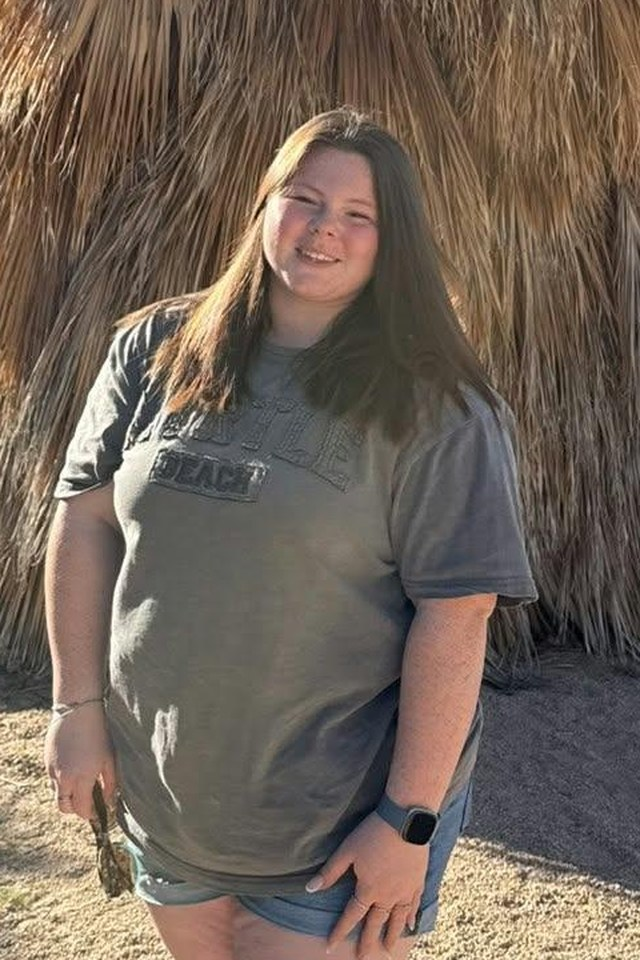
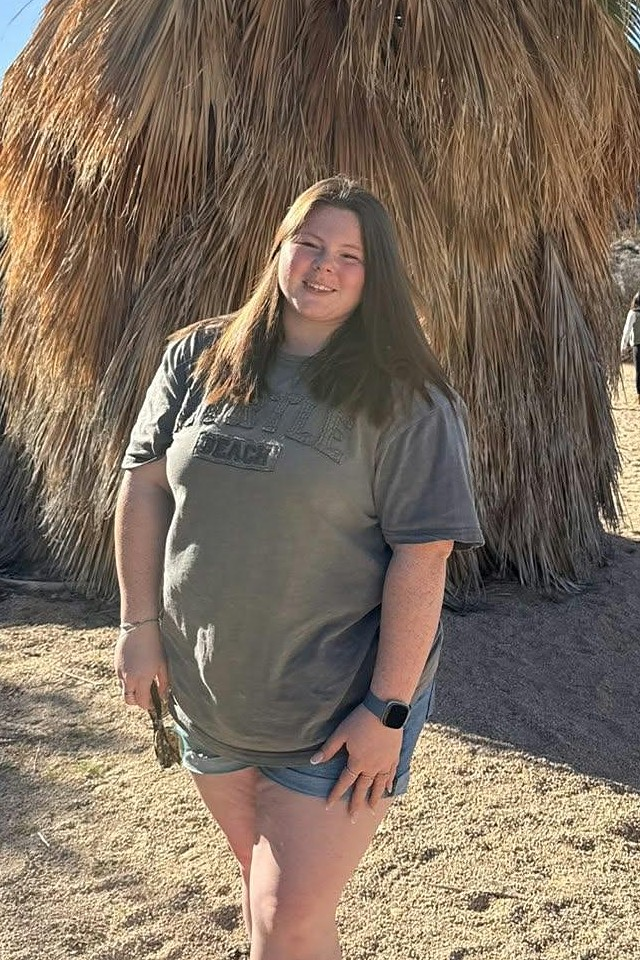
Avery photo: wider crop at native resolution
Claude-Session: https://claude.ai/code/session_01YKEHfAAvbnNQ1PL7qNPmK6

diff --git a/index.html b/index.html
@@ -75,7 +75,7 @@
           <a class="speaker-tile" href="speakers.html#katie"><img src="assets/speakers/katie.jpg" alt="Portrait of Katie Short" width="480" height="640" loading="lazy"><strong>Katie Short</strong><span>Worship Leader</span></a>
           <a class="speaker-tile" href="speakers.html#seth"><img src="assets/speakers/seth.jpg" alt="Portrait of Seth Smart" width="480" height="640" loading="lazy"><strong>Seth Smart</strong><span>Musician &amp; songwriter</span></a>
           <a class="speaker-tile" href="speakers.html#samantha"><img src="assets/speakers/samantha.jpg" alt="Portrait of Samantha Hoover" width="480" height="640" loading="lazy"><strong>Samantha Hoover</strong><span>Youth &amp; children&rsquo;s ministry</span></a>
-          <a class="speaker-tile" href="speakers.html#avery"><img src="assets/speakers/avery.jpg?v=2" alt="Portrait of Avery Gates" width="480" height="640" loading="lazy"><strong>Avery Gates</strong><span>Corry, PA</span></a>
+          <a class="speaker-tile" href="speakers.html#avery"><img src="assets/speakers/avery.jpg?v=3" alt="Portrait of Avery Gates" width="480" height="640" loading="lazy"><strong>Avery Gates</strong><span>Corry, PA</span></a>
           <a class="speaker-tile" href="speakers.html#tylor"><img src="assets/speakers/tylor.jpg" alt="Portrait of Tylor Enos" width="480" height="640" loading="lazy"><strong>Tylor Enos</strong><span>Men&rsquo;s Alliance &amp; worship team</span></a>
           <a class="speaker-tile" href="speakers.html#gavin"><img src="assets/speakers/gavin.jpg" alt="Portrait of Gavin Grieco" width="480" height="640" loading="lazy"><strong>Gavin Grieco</strong><span>Leader of The Porch</span></a>
           <a class="speaker-tile" href="speakers.html#chiara"><img src="assets/speakers/chiara.jpg" alt="Portrait of Chiara Hoover" width="480" height="640" loading="lazy"><strong>Chiara Hoover</strong><span>Worship team &amp; youth ministry</span></a>

diff --git a/speakers.html b/speakers.html
@@ -53,7 +53,7 @@
           </div>
         </article>
         <article class="card speaker" id="avery">
-          <img class="photo" src="assets/speakers/avery.jpg?v=2" alt="Portrait of Avery Gates" width="480" height="640" loading="lazy">
+          <img class="photo" src="assets/speakers/avery.jpg?v=3" alt="Portrait of Avery Gates" width="480" height="640" loading="lazy">
           <div>
             <h2>Avery Gates</h2>
             <p class="role">Corry, PA</p>
